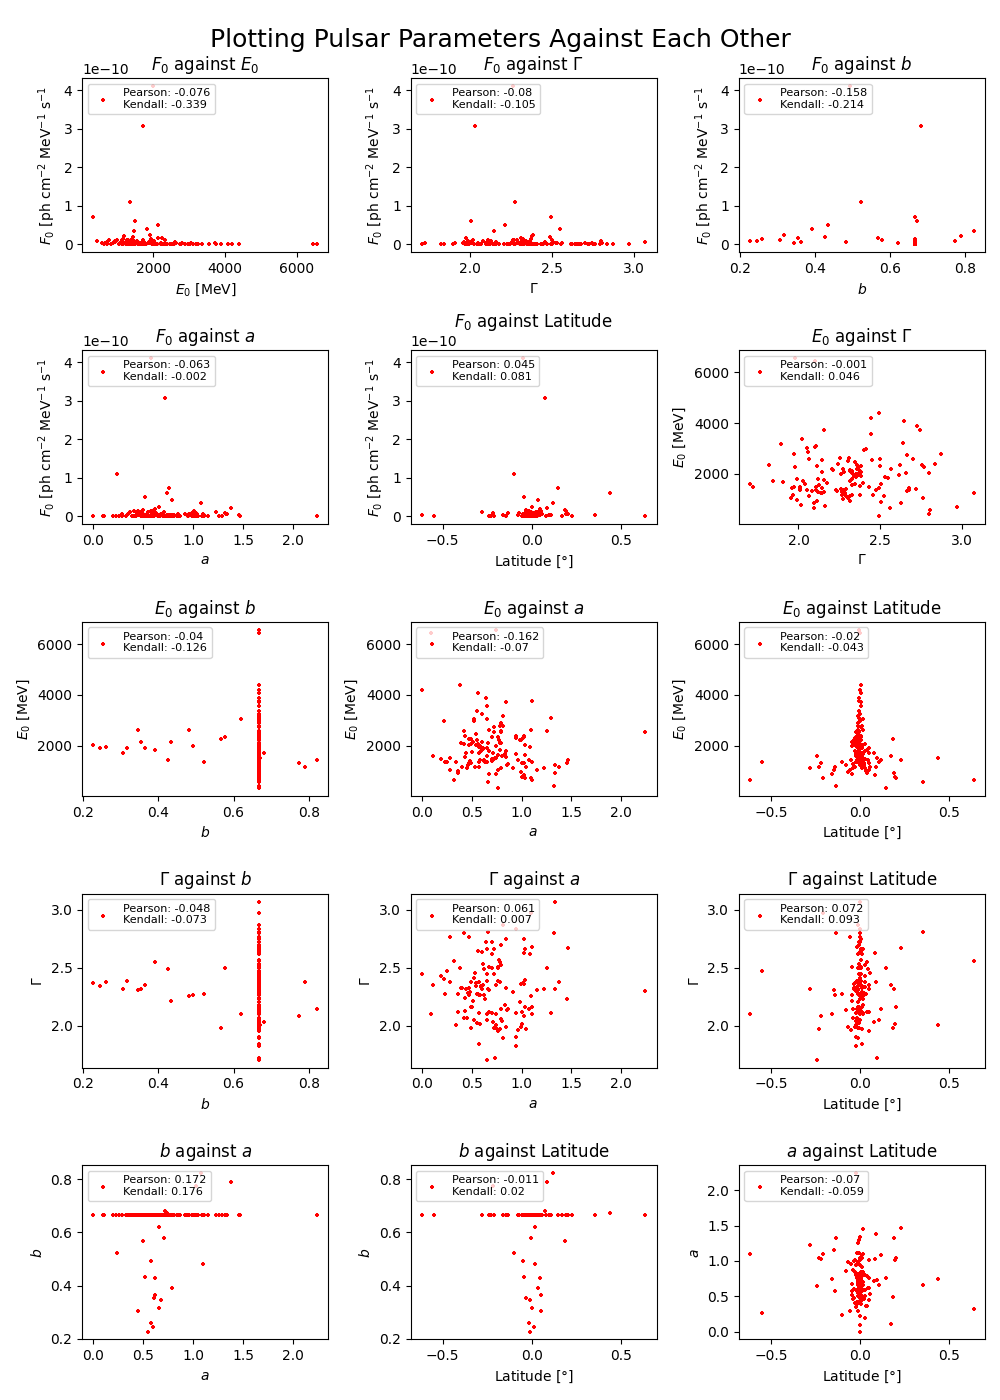
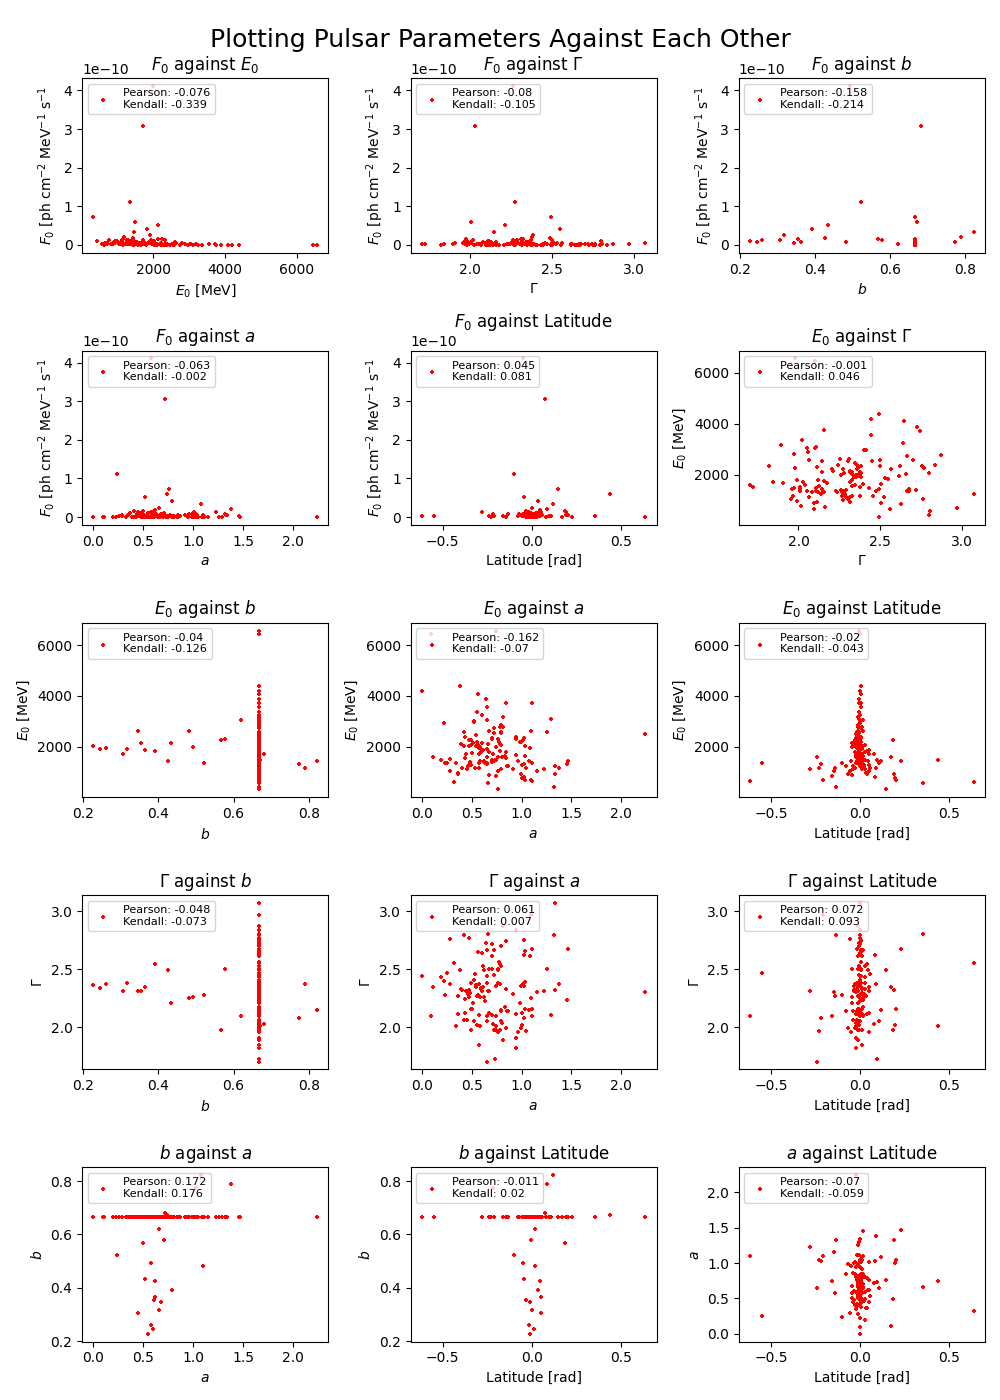
Fixed pulsar latitude generator and visualiser (chose to use a cauchy distribution instead).

diff --git a/data_simulation/source_generation/pulsar_generation.py b/data_simulation/source_generation/pulsar_generation.py
@@ -5,10 +5,12 @@ import numpy as np
 from . pulsar_spectral_parameters import energy_flux_pulsar
 from . utils import split_normal
 from scipy.optimize import curve_fit
-from scipy.stats import Mixture, Normal
+from scipy.stats import Mixture, Normal, cauchy
+
+import matplotlib.pyplot as plt
 
 
-def pulsar_generator(pulsar_stats, energy_flux_low, energy_flux_high, sigma_1, sigma_2):
+def pulsar_generator(pulsar_stats, energy_flux_low, energy_flux_high, cauchy_params):
 
     # sigma_1 and sigma_2 are the fitted standard deviations of Gaussian distribution
 
@@ -60,18 +62,12 @@ def pulsar_generator(pulsar_stats, energy_flux_low, energy_flux_high, sigma_1, s
             # SPATIAL PARAMETERS
 
             # l - uniform distribution assumed
-            longitude = np.random.uniform(low=0, high=2 * np.pi, size=1)[0]
+            longitude = np.random.uniform(low=- (2 * np.pi), high=2 * np.pi)
 
             # b - double Gaussian - two overlapping sampled as one
 
             # Randomly sample pulsar latitudes from distribution created above
-            X1 = Normal(mu=0, sigma=sigma_1)
-            X2 = Normal(mu=0, sigma=sigma_2)
-
-            # CHANGE WEIGHTS HERE TO REFLECT MSP VS YNG
-            mixture = Mixture([X1, X2])
-
-            latitude = mixture.sample(shape=(1, 1)).flatten()[0]
+            latitude = cauchy(loc=0, scale=np.float64(0.018077045649988577)).rvs()
 
             return np.asarray([pivot_energy, flux_density, spectral_slope, exponential_index, exponential_factor,
                                energy_flux, longitude, latitude])
@@ -160,11 +156,9 @@ def luminosity_function_pulsar(catalog: str, detection_threshold):
     return np.array([counts])[0], np.array(bin_intervals), peak
 
 
-# def generate_mock_pulsar_catalog(pulsars, num_pulsars=350):
-
 def generate_mock_pulsar_catalog(catalog: str, pulsars, detection_threshold):
 
-    # Select pivot energy values (in GeV)
+    # Select pivot energy values
     pivot_energies = pulsars['Pivot_Energy'].value
 
     # Select Gamma values and convert from masked to ordinary numpy array
@@ -209,6 +203,8 @@ def generate_mock_pulsar_catalog(catalog: str, pulsars, detection_threshold):
     # Divide by number of pulsars in 4FGL to get probabilities
     new_weights = unique_values.counts / len(b_values)
 
+    cauchy_params = cauchy.fit(pulsars['GLAT'].value, floc=0)
+
     pulsar_stats = (mean_log_Gamma_pulsars, std_log_Gamma_pulsars, mean_log_a_pulsars, std_log_a_pulsars,
      mean_log_flux_density_pulsars, std_log_flux_density_pulsars, mean_log_pivot_energy_pulsars,
      std_log_pivot_energy_pulsars, choice_values, new_weights)
@@ -216,22 +212,16 @@ def generate_mock_pulsar_catalog(catalog: str, pulsars, detection_threshold):
     # Fit split-normal distribution that describes pulsar latitudes and pass the appropriate parameters to
     # pulsar_generator()
 
-    counts, bins = np.histogram(pulsars['GLAT'].value, bins=100, density=True)
-
-    bin_width = np.abs(bins[1] - bins[0])
-
-    start_value = bins[0] + (bin_width / 2)
-
-    x_values = [start_value + (k * bin_width) for k in range(len(bins) - 1)]
-
-    popt, _ = curve_fit(f=split_normal, xdata=np.asarray(x_values), ydata=np.asarray(counts), bounds=([0, 0], [2 * np.pi, 2 * np.pi]))
-
-    parameters = []
-
-    # for x in range(num_pulsars):
-    #     new_source = pulsar_generator(pulsar_stats, energy_flux_low=0, energy_flux_high=1000, sigma_1=popt[0],
-    #                                   sigma_2=popt[1])
-    #     parameters.append(np.array(new_source))
+    # counts, bins = np.histogram(pulsars['GLAT'].value, bins=10, density=True)
+    #
+    #
+    # bin_width = np.abs(bins[1] - bins[0])
+    #
+    # start_value = bins[0] + (bin_width / 2)
+    #
+    # x_values = [start_value + (k * bin_width) for k in range(len(bins) - 1)]
+    #
+    # popt, _ = curve_fit(f=split_normal, xdata=np.asarray(x_values), ydata=np.asarray(counts), bounds=([0, 0], [2 * np.pi, 2 * np.pi]))
 
     # CREATE NEW SOURCES
 
@@ -247,13 +237,8 @@ def generate_mock_pulsar_catalog(catalog: str, pulsars, detection_threshold):
                                                                    target_counts[target_peak:])):
 
         # Due to uncomplimentary functionality - need max of intervals[:-1] - see reference to Digitize Error
-        # new_source = agn_generator((mean_log_pivot_energy_agn, std_log_pivot_energy_agn, betas_agn),
-        #                            energy_flux_low=np.min(target_bin_intervals),
-        #                            energy_flux_high=np.max(target_bin_intervals[:-1]))
-
         new_source = pulsar_generator(pulsar_stats, energy_flux_low=np.min(target_bin_intervals),
-                                      energy_flux_high=np.max(target_bin_intervals[:-1]), sigma_1=popt[0],
-                                      sigma_2=popt[1])
+                                      energy_flux_high=np.max(target_bin_intervals[:-1]), cauchy_params=cauchy_params)
 
         idx = np.digitize(new_source[5], target_bin_intervals)
 
@@ -268,64 +253,6 @@ def generate_mock_pulsar_catalog(catalog: str, pulsars, detection_threshold):
             parameters.append(np.array(new_source))
             actual_counts[idx] += 1
 
-        print(actual_counts)
+    parameters = np.array(parameters)
 
-
-    # CUTOFF THRESHOLD AND LUMINOSITY FUNCTION CHECK
-
-    # Cut at detection threshold
-
-    # CHECK THIS AND ADD BACK IN - NEED CUT OFF THRESHOLD!!!!!!!!!!!!!!!!!!!
-    #
-    # parameters = parameters[~(parameters[:, 5] <= np.float64(1.0 * 10 ** (-12))), :]
-    #
-    # # ADD MORE SOURCES - FOLLOW LUMINOSITY FUNCTION OF 4FGL - ENSURE ENOUGH
-    #
-    # extra_sources = []
-    #
-    # for x in range(extra):
-    #
-    #     print(x + 1)
-    #
-    #     # CHANGED TO 1.0 * 10 ** -12 as recommended by 4FGL DR4 (ID22) paper for outside galactic plane
-    #
-    #     new_source = pulsar_generation(pulsar_stats, 1.0 * 10 ** (-12), 1000, sigma_1=popt[0], sigma_2=popt[1])
-    #
-    #     extra_sources.append(new_source)
-    #
-    # parameters = np.vstack((parameters, np.asarray(extra_sources)))
-    #
-    # # FAINT SOURCE FLAT EXTRAPOLATION
-    #
-    # # Flat extrapolation of AGN - assume constant below given threshold (not Gaussian)
-    #
-    # # Bin data and take average of first three
-    # bin_edges = 10 ** np.linspace(-14, -9, 50)
-    # counts, _ = np.histogram(parameters[:, 5], bins=bin_edges)
-    #
-    # # Take average number of sources of first five bins for flat extrapolation
-    # first_non_empty_bin = np.nonzero(counts)[0][0]
-    # mean_counts_per_bin, std_counts_per_bin = (np.mean(counts[first_non_empty_bin: first_non_empty_bin + 10]),
-    #                                            np.std(counts[first_non_empty_bin: first_non_empty_bin + 10], ddof=1))
-    #
-    # faint_sources = []
-    #
-    # our_threshold = np.argwhere(bin_edges >= 3.4 * 10 ** (-13))[0][0]
-    #
-    # for x in range(our_threshold, first_non_empty_bin):
-    #
-    #     # Generate number of sources in bin - approximately flat/same as bins at peak
-    #     counts_per_bin_flat_extrapolation = round(np.random.normal(loc=mean_counts_per_bin, scale=std_counts_per_bin,
-    #                                                                size=1)[0])
-    #
-    #     for k in range(counts_per_bin_flat_extrapolation):
-    #         new_source = pulsar_generation(pulsar_stats, bin_edges[x], bin_edges[x + 1], sigma_1=popt[0], sigma_2=popt[1])
-    #         faint_sources.append(new_source)
-    #
-    # faint_sources = np.asarray(faint_sources)
-    #
-    # parameters = np.vstack((parameters, faint_sources))
-
-    # CHECK LUMIN FUNCTION - NOT FINISHED!!!!!!
-
-    return np.array(parameters)
+    return parameters

diff --git a/data_simulation/analysis/visualisation.py b/data_simulation/analysis/visualisation.py
@@ -1,7 +1,7 @@
 from itertools import combinations, product
 import matplotlib.pyplot as plt
 import numpy as np
-from scipy.stats import fisk, logistic, lognorm, norm
+from scipy.stats import cauchy, lognorm, norm
 from .utils import log_normal_parameter
 import seaborn as sns
 from sklearn.metrics import root_mean_squared_error
@@ -22,7 +22,7 @@ mathematical_notation = {"Pivot_Energy": "$E_0$", "LP_Flux_Density": "$F_0$", "L
 units = {"LP_Flux_Density": "[ph cm$^{-2}$ MeV$^{-1}$ s$^{-1}$", "Pivot_Energy": "[MeV]", "LP_Index": "",
          "LP_beta": "",
          "PLEC_IndexS": "", "PLEC_Flux_Density": "[ph cm$^{-2}$ MeV$^{-1}$ s$^{-1}$", "PLEC_Exp_Index": "",
-         "PLEC_ExpfactorS": "", "GLAT": "[$\degree$]"}
+         "PLEC_ExpfactorS": "", "GLAT": "[rad]"}
 
 
 def plot_correlation_matrices(sources, source_type, directory):
@@ -234,8 +234,8 @@ def plot_parameter_distributions(sources, source_type: str, directory: str):
         # Calculate distribution parameters of data
         mean, sigma = np.mean(values), np.std(values, ddof=1)
         scale, s = log_normal_parameter(values)
-        logistic_scale = sigma * (np.sqrt(3) / np.pi)
-        log_logistic_scale = np.std(np.log(values), ddof=1) * (np.sqrt(3) / np.pi)
+        # logistic_scale = sigma * (np.sqrt(3) / np.pi)
+        # log_logistic_scale = np.std(np.log(values), ddof=1) * (np.sqrt(3) / np.pi)
 
         # Plot Gaussian using mean and standard deviation of data
         x_values = np.linspace(np.min(values), np.max(values), 1000)
@@ -247,12 +247,16 @@ def plot_parameter_distributions(sources, source_type: str, directory: str):
                      linestyle='--')
 
         # Plot Logistic distribution using mean and standard deviation of data (I noted similarity of shapes)
-        subplot.plot(x_values, logistic.pdf(x_values, loc=mean, scale=logistic_scale), color='purple', label='Logistic',
-                     linestyle=":")
+        # subplot.plot(x_values, logistic.pdf(x_values, loc=mean, scale=logistic_scale), color='purple', label='Logistic',
+        #              linestyle=":")
 
         # Plot log-logistic distribution using mean and standard deviation of data (I noted similarity of shapes)
-        subplot.plot(x_values, fisk.pdf(x_values, scale=np.exp(np.mean(np.log(x_values))), c=1 / log_logistic_scale),
-                     color='green', label='Log-Logistic')
+        # subplot.plot(x_values, fisk.pdf(x_values, scale=np.exp(np.mean(np.log(x_values))), c=1 / log_logistic_scale),
+        #              color='green', label='Log-Logistic')
+
+        cauchy_params = cauchy.fit(values, floc=0)
+
+        subplot.plot(x_values, cauchy.pdf(x_values, *cauchy_params), label="Cauchy", color='green')
 
         # Long line
         long_line = "\n"

diff --git a/data_simulation/analysis/goodness_of_fit.py b/data_simulation/analysis/goodness_of_fit.py
@@ -1,5 +1,5 @@
 import numpy as np
-from scipy.stats import chi2, kstest, lognorm, Normal
+from scipy.stats import cauchy, chi2, kstest, lognorm, Normal
 
 
 def chi_squared_test(values, num_bins: int, distribution: str) -> None:
@@ -28,6 +28,12 @@ def chi_squared_test(values, num_bins: int, distribution: str) -> None:
             std_log = np.sqrt(np.log(1 + (std_square / mean_square)))
 
             X = lognorm(s=std_log, scale=np.exp(mean_log))
+
+        case "cauchy":
+
+            params = cauchy.fit(values, floc=0)
+
+            X = cauchy(*params)
 
         case _:
 
@@ -118,6 +124,14 @@ def kolmogorov_smirnov_test(values, distribution: str, alpha=0.05) -> None:
             std_log = np.sqrt(np.log(1 + (std_square / mean_square)))
 
             x = lognorm(s=std_log, scale=np.exp(mean_log))
+            ks_stat, p_val = kstest(values, x.cdf)
+
+        case "cauchy":
+
+            params = cauchy.fit(values, floc=0)
+
+            x = cauchy(*params)
+
             ks_stat, p_val = kstest(values, x.cdf)
 
         case _:

diff --git a/data_simulation/verification/visualisation.py b/data_simulation/verification/visualisation.py
@@ -6,7 +6,7 @@ import numpy as np
 import numpy.typing as npt
 
 
-def plot_luminosity_function(catalog: str, energy_fluxes: npt.NDArray[np.float64], directory:str,
+def plot_luminosity_function(catalog: str, energy_fluxes: npt.NDArray[np.float64], directory: str,
                                  source_type="AGN") -> None:
 
     # Data Processing
@@ -72,17 +72,8 @@ def plot_spatial_distribution(galactic_longitudes, galactic_latitudes, source_ty
 
     # N.B. longitudes and latitudes should be passed to this function in radians (not in degrees)
 
-    # CALCULATE RA AND DEC
-
-    xs, ys = [], []
-
-    for k in range(galactic_latitudes.shape[0]):
-
-        ra_dec = SkyCoord(l=galactic_longitudes[k] * u.rad, b=galactic_latitudes[k] * u.rad,
-                          frame='galactic').transform_to('icrs')
-
-        xs.append(ra_dec.ra.to_value(u.degree))
-        ys.append(ra_dec.dec.to_value(u.degree))
+    xs = galactic_longitudes
+    ys = galactic_latitudes
 
     # CREATE FIGURE
 

diff --git a/data_simulation/create_mock_catalog.py b/data_simulation/create_mock_catalog.py
@@ -112,7 +112,7 @@ def analysis(agn_rows, pulsar_rows, directory="./plots/analysis"):
     print("PARAMETER DISTRIBUTION ANALYSIS")
     print('-' * 60)
 
-    prob_dist = ['normal', 'lognorm']
+    prob_dist = ['normal', 'lognorm', 'cauchy']
 
     # AGNs
 
@@ -248,7 +248,7 @@ agn_rows, pulsar_rows, source_detection_threshold, fluxes_4fgl = catalog_data_pr
 
 # Generate simulated AGN sources
 
-# agns = generate_mock_agn_catalog(file, agn_rows.copy(), detection_threshold=source_detection_threshold)
+agns = generate_mock_agn_catalog(file, agn_rows.copy(), detection_threshold=source_detection_threshold)
 
 # Generate simulated pulsar sources
 

diff --git a/data_simulation/source_generation/agn_generation.py b/data_simulation/source_generation/agn_generation.py
@@ -46,7 +46,7 @@ def agn_generator(agn_stats, energy_flux_low=0., energy_flux_high=1000.):
             # SPATIAL PARAMETERS
 
             # longitude
-            longitude = np.random.uniform(low=0, high=2 * np.pi)
+            longitude = np.random.uniform(low=- (2 * np.pi), high=2 * np.pi)
 
             # latitude
             sin_galactic_latitudes = np.random.uniform(low=-1, high=1)
